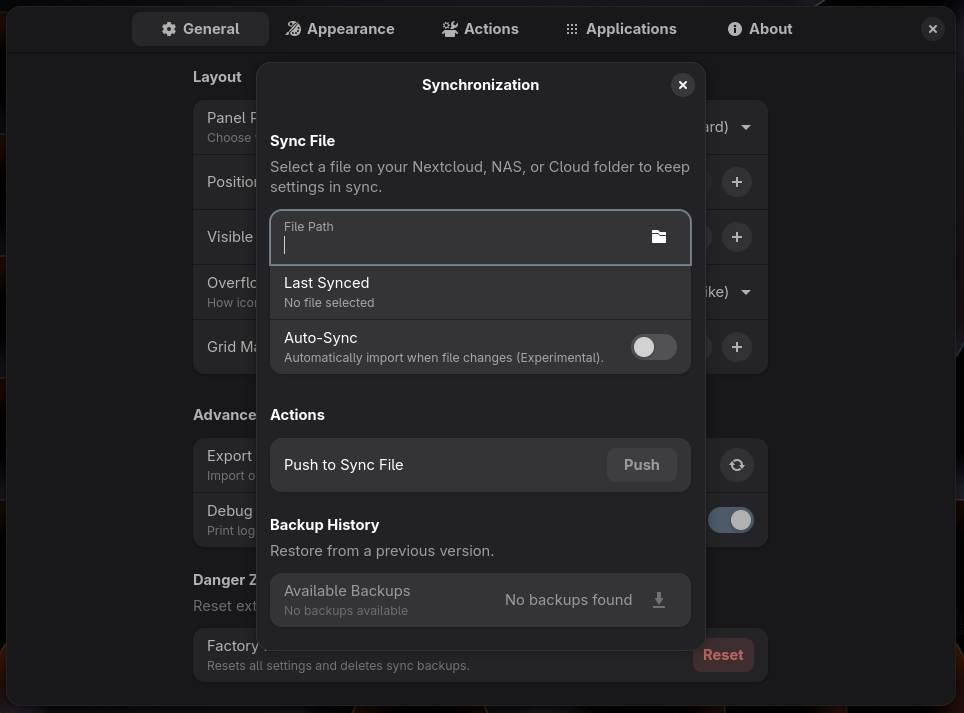
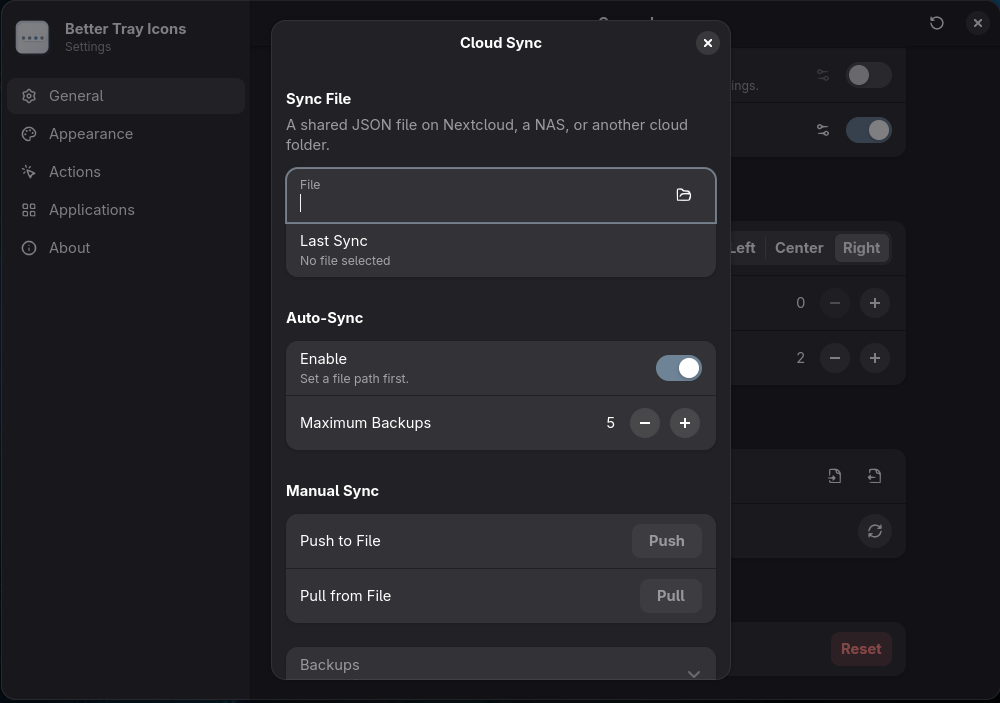
docs: refresh the readme, screenshots and description
- document the new module layout in CONTRIBUTING
- update the README and its screenshots for the redesigned preferences
- reword the extension description now that backups are no longer rotated

diff --git a/README.md b/README.md
@@ -1,80 +1,135 @@
 <p align="center">
-  <img src="assets/logo.svg" alt="Better Tray Icons" width="264">
+  <picture>
+    <source media="(prefers-color-scheme: dark)" srcset="assets/logo.svg" width="264">
+    <source media="(prefers-color-scheme: light)" srcset="media/logo-dark.svg" width="264">
+    <img alt="Nexaknight" src="assets/logo.svg" width="264">
+  </picture>
 </p>
 
+
 <h1 align="center">
-  <img src="media/icon.png" alt="" width="48" align="center">
+  <img src="assets/icon.png" alt="" width="40" align="center">
   &nbsp;Better Tray Icons
 </h1>
 
 <p align="center">
-  A GNOME Shell extension that brings tray icons back to the top panel.
+  A GNOME Shell extension that returns tray icons to the top panel. Tidy, configurable and entirely yours.
 </p>
 
 <p align="center">
-  <img src="media/screenshots/panel-toggle.png" alt="Tray icons in the panel" width="500">
+  <a href="https://extensions.gnome.org/extension/9975/better-tray-icons/"><img alt="Get it on GNOME Extensions" src="https://img.shields.io/badge/GNOME%20Extensions-install-4A86CF?style=flat-square&logo=gnome&logoColor=white"></a>
+  <a href="https://github.com/nexaknight/BetterTrayIcons/stargazers"><img alt="Stars" src="https://img.shields.io/github/stars/nexaknight/BetterTrayIcons?style=flat-square&color=8E44AD"></a>
+  <img alt="GNOME Shell" src="https://img.shields.io/badge/GNOME%20Shell-49%2F50-333333?style=flat-square">
+  <img alt="Session" src="https://img.shields.io/badge/session-Wayland-2ECC71?style=flat-square">
+  <a href="LICENSE"><img alt="License: GPL-3.0" src="https://img.shields.io/badge/license-GPL--3.0-blue?style=flat-square"></a>
+</p>
+
+
+<p align="center">
+  <img src="media/screenshots/panel-toggle.png" alt="Tray icons in the panel" width="520">
 </p>
 
 ## About
 
-Better Tray Icons puts tray icons back into the GNOME panel where they belong. You pick how many icons stay visible, and the rest tuck away into a popup behind a toggle button.
+Better Tray Icons puts tray icons back into the GNOME panel where they belong. You decide how many stay visible, and the rest tuck neatly away into a popup behind a toggle button.
 
-Every icon can be renamed, hidden, reordered or swapped out for a custom one. Clicks are fully configurable for Tray icons and Toggle Button, with double-click and long-press support. Spacing, padding, colors, the toggle button styling, all of it is up to you.
+Every icon can be renamed, hidden, reordered or swapped out for a custom one. Clicks are fully configurable for both tray icons and the toggle button, with double-click and long-press support. Spacing, padding, colors, the toggle button styling, all of it is up to you.
 
-Settings can be exported, imported and even synced across devices through a shared JSON file with rotated backups.
+Settings can be exported, imported and even synced across devices through a shared JSON file with automatic backups.
 
 
 ## Features
 
-| Feature | |
-|---|:-:|
-| Tray icons in the panel | ![](https://img.shields.io/badge/-✓-22c55e?style=flat-square) |
-| Overflow popup with a configurable toggle button, in row or grid layout | ![](https://img.shields.io/badge/-✓-22c55e?style=flat-square) |
-| Drag-and-drop reordering inside the panel and the popup | ![](https://img.shields.io/badge/-✓-22c55e?style=flat-square) |
-| Right-click context menus | ![](https://img.shields.io/badge/-✓-22c55e?style=flat-square) |
-| Hover tooltips with configurable side and delay | ![](https://img.shields.io/badge/-✓-22c55e?style=flat-square) |
-| Rename, hide, reorder or override any icon per app | ![](https://img.shields.io/badge/-✓-22c55e?style=flat-square) |
-| Click actions for left, middle and right click, each plus double-click and long-press | ![](https://img.shields.io/badge/-✓-22c55e?style=flat-square) |
-| Extra toggle-button actions like open popup, cycle icons, action menu, open settings | ![](https://img.shields.io/badge/-✓-22c55e?style=flat-square) |
-| Independent styling for tray icons, toggle button and overflow container | ![](https://img.shields.io/badge/-✓-22c55e?style=flat-square) |
-| Symbolic icon mode (if the app supports it) | ![](https://img.shields.io/badge/-✓-22c55e?style=flat-square) |
-| JSON export and import with optional cloud sync and rotated backups | ![](https://img.shields.io/badge/-✓-22c55e?style=flat-square) |
+Everything you need to tame the tray, and nothing you do not.
+
+&nbsp;✓&nbsp; **Icons in the panel** with an overflow popup in row or grid layout<br>
+&nbsp;✓&nbsp; **Drag and drop** reordering, in the panel and inside the popup<br>
+&nbsp;✓&nbsp; **Full click control** for left, middle and right, each with double-click and long-press<br>
+&nbsp;✓&nbsp; **Toggle-button actions** like open popup, cycle icons, action menu and open settings<br>
+&nbsp;✓&nbsp; **Per-app overrides** to rename, hide, reorder or replace any icon<br>
+&nbsp;✓&nbsp; **Independent styling** for tray icons, toggle button and overflow container<br>
+&nbsp;✓&nbsp; **Hover tooltips** with configurable side and delay<br>
+&nbsp;✓&nbsp; **Symbolic icon mode** for a clean, native look where supported<br>
+&nbsp;✓&nbsp; **Sync and backups** through JSON export and import with automatic backups
 
 ## Screenshots
 
-| Panel | Overflow (row) | Overflow (grid) |
-|:-:|:-:|:-:|
-| ![Panel](media/screenshots/panel-toggle.png) | ![Row layout](media/screenshots/overflow-row-layout.png) | ![Grid layout](media/screenshots/overflow-grid-layout.png) |
-| Toggle button in the panel. Click to reveal the rest. | Row layout, single line. | Grid layout with a configurable column limit. |
+<table>
+  <tr>
+    <th align="center">Panel</th>
+    <th align="center">Overflow (row)</th>
+    <th align="center">Overflow (grid)</th>
+  </tr>
+  <tr>
+    <td align="center"><img src="media/screenshots/panel-toggle.png" alt="Panel" width="260"></td>
+    <td align="center"><img src="media/screenshots/overflow-row-layout.png" alt="Row layout" width="260"></td>
+    <td align="center"><img src="media/screenshots/overflow-grid-layout.png" alt="Grid layout" width="260"></td>
+  </tr>
+  <tr>
+    <td align="center">Toggle button in the panel.<br>Click to reveal the rest.</td>
+    <td align="center">Row layout, single line.</td>
+    <td align="center">Grid layout with a<br>configurable column limit.</td>
+  </tr>
+  <tr>
+    <th align="center">Tooltip</th>
+    <th align="center">Custom styling</th>
+    <th align="center">Drag and drop</th>
+  </tr>
+  <tr>
+    <td align="center"><img src="media/screenshots/tray-tooltip.png" alt="Tooltip" width="260"></td>
+    <td align="center"><img src="media/screenshots/overflow-custom-style.png" alt="Custom container styling" width="260"></td>
+    <td align="center"><img src="media/screenshots/drag-and-drop.gif" alt="Drag and drop" width="260"></td>
+  </tr>
+  <tr>
+    <td align="center">Hover tooltip with<br>configurable side and delay.</td>
+    <td align="center">Background, radius, padding<br>and hover color, all overridable.</td>
+    <td align="center">Reorder icons in the<br>panel and the popup.</td>
+  </tr>
+</table>
 
-| Tooltip | Custom styling | Drag and Drop |
-|:-:|:-:|:-:|
-| ![Tooltip](media/screenshots/tray-tooltip.png) | ![Custom container styling](media/screenshots/overflow-custom-style.png) | ![Drag and Drop](media/screenshots/drag-and-drop.gif) |
-| Hover tooltip with configurable side and delay. | Background, radius, padding and hover color, all overridable. | Drag icons around to reorder them, both in the panel and the popup. |
-
-### Preferences
-
-| General | Appearance | Actions |
-|:-:|:-:|:-:|
-| ![General](media/screenshots/prefs-general.png) | ![Appearance](media/screenshots/prefs-appearance.png) | ![Actions](media/screenshots/prefs-actions.png) |
-
-| Applications | Icon picker | Sync |
-|:-:|:-:|:-:|
-| ![Applications](media/screenshots/prefs-applications.png) | ![Icon picker](media/screenshots/prefs-icon-picker.png) | ![Sync dialog](media/screenshots/prefs-sync-dialog.png) |
+<details>
+  <summary><b>Preferences window</b> (click to expand)</summary>
+  <br>
+  <table>
+    <tr>
+      <th align="center">General</th>
+      <th align="center">Appearance</th>
+      <th align="center">Actions</th>
+    </tr>
+    <tr>
+      <td align="center"><img src="media/screenshots/prefs-general.png" alt="General" width="260"></td>
+      <td align="center"><img src="media/screenshots/prefs-appearance.png" alt="Appearance" width="260"></td>
+      <td align="center"><img src="media/screenshots/prefs-actions.png" alt="Actions" width="260"></td>
+    </tr>
+    <tr>
+      <th align="center">Applications</th>
+      <th align="center">Icon picker</th>
+      <th align="center">Sync</th>
+    </tr>
+    <tr>
+      <td align="center"><img src="media/screenshots/prefs-applications.png" alt="Applications" width="260"></td>
+      <td align="center"><img src="media/screenshots/prefs-icon-picker.png" alt="Icon picker" width="260"></td>
+      <td align="center"><img src="media/screenshots/prefs-sync-dialog.png" alt="Sync dialog" width="260"></td>
+    </tr>
+  </table>
+</details>
 
 ## Installation
 
-The easiest way to install Better Tray Icons is from the [GNOME Extensions website](https://extensions.gnome.org/extension/9975/better-tray-icons/).
+The easiest way to get Better Tray Icons is straight from the [**GNOME Extensions website**](https://extensions.gnome.org/extension/9975/better-tray-icons/). One click and you are done.
 
-If you'd rather grab the development version from source, head over to the [Installation wiki page](../../wiki/Installation).
+Prefer building from source? The [Installation wiki page](../../wiki/Installation) has the development version covered.
 
 ## Compatibility
 
-Better Tray Icons targets the two most recent stable GNOME Shell releases. Check `metadata.json` for the exact versions of the current build. Wayland only, X11 sessions are not supported.
+Better Tray Icons targets the **two most recent stable GNOME Shell releases**. Check [`metadata.json`](metadata.json) for the exact versions of the current build.
+
+> [!NOTE]
+> Wayland only. X11 sessions are not supported.
 
 ## Conflicts
 
-Disable any other tray or AppIndicator extension before enabling this one, otherwise both will fight over the same DBus names. The Extensions app warns about this up front, because the conflicting UUIDs are declared in `metadata.json`:
+Disable any other tray or AppIndicator extension before enabling this one, otherwise both will fight over the same DBus names. The Extensions app warns about this up front, because the conflicting UUIDs are declared in [`metadata.json`](metadata.json):
 
 - `appindicatorsupport@rgcjonas.gmail.com` (AppIndicator and KStatusNotifierItem Support)
 - `ubuntu-appindicators@ubuntu.com`
@@ -90,10 +145,42 @@ This extension could be even better with your help. The [Contributing guide](CON
 
 ## Credits
 
-Better Tray Icons is inspired by [AppIndicator/KStatusNotifierItem support for GNOME Shell](https://github.com/ubuntu/gnome-shell-extension-appindicator) and uses the DBus interface XML files from the upstream specifications that project links to.
+<table>
+  <tr>
+    <td valign="top" width="50%">
+      <b>Project inspiration</b>
+      <ul>
+        <li><a href="https://github.com/ubuntu/gnome-shell-extension-appindicator">AppIndicator/KStatusNotifierItem support for GNOME Shell</a></li>
+        <li><a href="https://github.com/MartinPL/Tray-Icons-Reloaded">Tray Icons: Reloaded</a> by MartinPL</li>
+      </ul>
+    </td>
+    <td valign="top" width="50%">
+      <b>DBus interfaces</b>
+      <br><br>
+      Interface XML files from the upstream specifications that <a href="https://github.com/ubuntu/gnome-shell-extension-appindicator">AppIndicator</a> links to.
+    </td>
+  </tr>
+  <tr>
+    <td valign="top" width="50%">
+      <b>Preferences layout</b>
+      <br><br>
+      The About page takes a few cues from <a href="https://github.com/home-sweet-gnome/dash-to-panel">Dash to Panel</a> by Home Sweet GNOME.
+    </td>
+    <td valign="top" width="50%">
+      <b>Preference icons</b>
+      <ul>
+        <li>Mostly <a href="https://github.com/lucide-icons/lucide">Lucide</a> (ISC)</li>
+        <li>Some derived from <a href="https://github.com/feathericons/feather">Feather</a> (MIT) by Cole Bemis</li>
+        <li>Wine glyph from <a href="https://github.com/somepaulo/MoreWaita">MoreWaita</a> (GPL-3.0)</li>
+      </ul>
+    </td>
+  </tr>
+</table>
 
-The preferences window, especially the About page layout, takes a few cues from [Dash to Panel](https://github.com/home-sweet-gnome/dash-to-panel) by Home Sweet GNOME.
+Full per-icon attribution and the license texts live in [assets/icons/CREDITS](assets/icons/CREDITS).
 
 ## License
 
-Better Tray Icons is available under the terms of the GPL v3 or later license. See [LICENSE](LICENSE) for the full text.
+Better Tray Icons is available under the terms of the **GPL v3 or later** license. See [LICENSE](LICENSE) for the full text.
+
+<p align="center"><sub>Made with care by <a href="https://github.com/nexaknight">NexaKnight</a>. If it makes your panel tidier, consider leaving a star.</sub></p>

diff --git a/CONTRIBUTING.md b/CONTRIBUTING.md
@@ -109,13 +109,17 @@ media/                    # listing icon and README screenshots, not shipped in 
 src/
 ├── shared/               # code reachable from both shell and prefs (logging, settings IO, app config, icon resolver)
 ├── shell/                # code running inside gnome-shell
-│   ├── features/         # click controller, drag-and-drop, tooltip
-│   └── utils/            # shell-side helpers (icons, dbus, actor)
+│   ├── panel/            # the panel indicator with its toggle button and overflow popup
+│   ├── sni/              # StatusNotifierItem source: watcher, tray icon, dbusmenu client
+│   ├── xembed/           # XEmbed source for Wine and Proton apps
+│   ├── backgroundAppsProxy/  # proxy icons for windowless background apps
+│   ├── features/         # click controller, drag-and-drop, tooltip, background apps
+│   └── utils/            # shell-side helpers (icons, dbus, actor, app ids)
 └── prefs/                # code running inside the preferences window
     ├── pages/            # top-level prefs pages (general, appearance, actions, applications, about)
     ├── subpages/         # drill-down pages (overflow menu, toggle button, tray icons)
-    ├── dialogs/          # modal dialogs such as the app editor and the sync dialog
-    └── widgets/          # composite widget classes (icon picker, action config)
+    ├── dialogs/          # dialogs (app editor, sync, icon picker, config)
+    └── widgets/          # widget factories (rows, sidebar, previews, gtk helpers)
 ```
 
 Branching workflow:
@@ -201,7 +205,7 @@ That API only returns people with at least one commit merged into the default br
 - **A merged PR does.** Translation PRs, documentation fixes, code patches, anything that lands in `main`. Even a one-line typo fix counts.
 - **Co-authored commits count too.** Add a `Co-authored-by:` line at the bottom of the commit message and GitHub will list each named co-author.
 
-If you'd rather not appear in the in-app list, head over to the [Contributor Opt-Out](../../wiki/Contributor-Opt-Out) page on the wiki.
+If you'd rather not appear in the in-app list, head over to the [Contributor Opt-Out](../../wiki/Contributor‐Opt‐Out) page on the wiki.
 
 ## Questions
 
